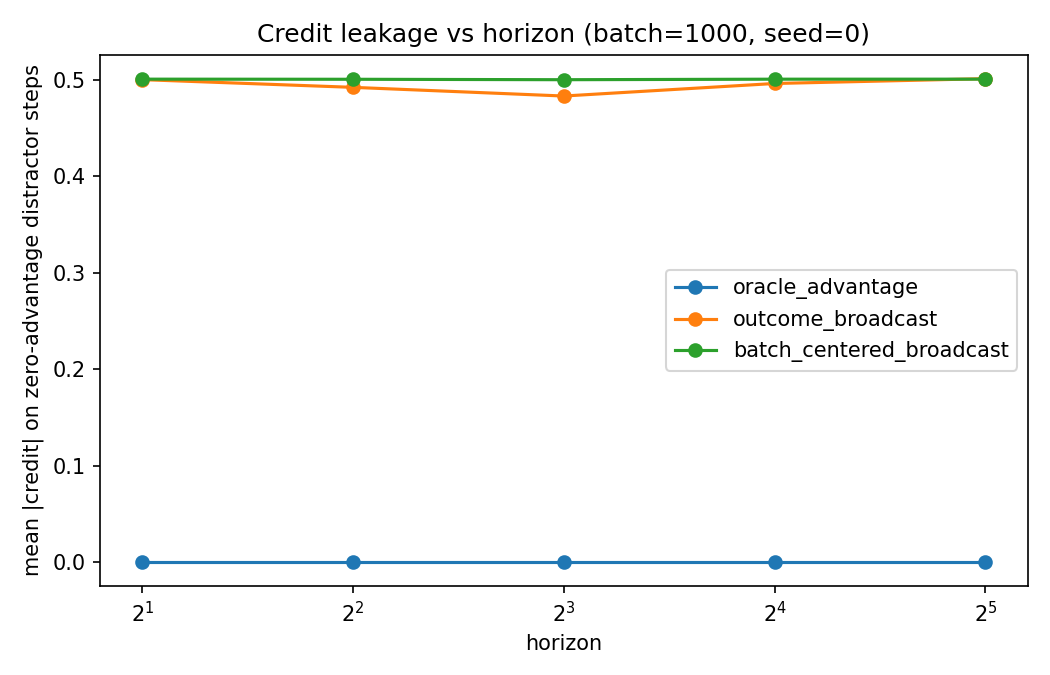
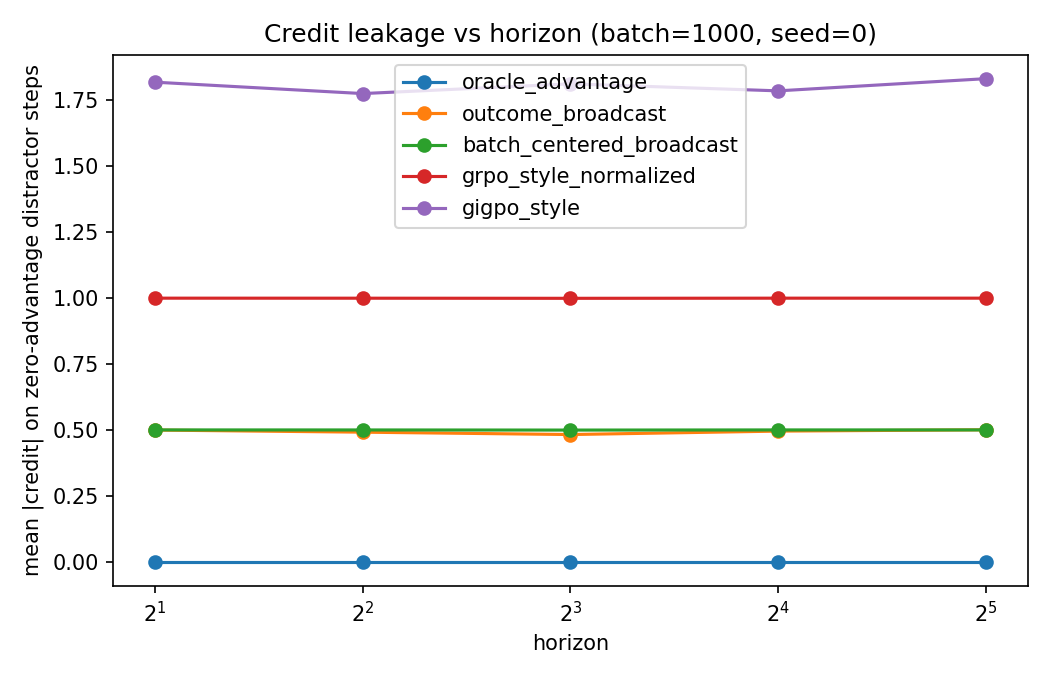
feat: add estimator adapter and GRPO/GiGPO-style baselines

diff --git a/tests/test_adapters.py b/tests/test_adapters.py
@@ -1,0 +1,107 @@
+"""Tests for the adapter and the library-style baselines (plan.md §16)."""
+
+import statistics
+
+import pytest
+
+from agent_credit_bench.envs import DelayedEffectEnv
+from agent_credit_bench.estimators import (
+    BatchCenteredBroadcast,
+    EstimatorContext,
+    GiGPOStyle,
+    GRPOStyleNormalized,
+    TrajectoryReturnAdapter,
+)
+from agent_credit_bench.policy import UniformPolicy
+from agent_credit_bench.sampling import sample_trajectories
+from agent_credit_bench.types import Step, Trajectory
+from helpers import bandit_case
+
+
+def bandit_batch() -> EstimatorContext:
+    mdp, policy = bandit_case()
+    trajectories = (
+        Trajectory((Step(0, "s0", "A", 1.0, "done", True),)),
+        Trajectory((Step(0, "s0", "B", 0.0, "done", True),)),
+        Trajectory((Step(0, "s0", "A", 1.0, "done", True),)),
+    )
+    return EstimatorContext(mdp=mdp, policy=policy, trajectories=trajectories)
+
+
+def test_adapter_reproduces_batch_centered():
+    """A hand-written LOO function through the adapter == the built-in."""
+
+    def loo(returns):
+        total = sum(returns)
+        n = len(returns)
+        return [r - (total - r) / (n - 1) for r in returns]
+
+    context = bandit_batch()
+    adapted = TrajectoryReturnAdapter(fn=loo, name="loo_adapter")
+    expected = BatchCenteredBroadcast().estimate(context)
+    for adapted_row, expected_row in zip(
+        adapted.estimate(context), expected, strict=True
+    ):
+        assert adapted_row == pytest.approx(expected_row)
+
+
+def test_adapter_rejects_wrong_output_length():
+    adapter = TrajectoryReturnAdapter(fn=lambda returns: returns[:-1])
+    with pytest.raises(ValueError):
+        adapter.estimate(bandit_batch())
+
+
+def test_grpo_style_hand_calculation():
+    # Returns 1, 0, 1: mean 2/3, population std sqrt(2)/3.
+    context = bandit_batch()
+    credits = GRPOStyleNormalized().estimate(context)
+    std = statistics.pstdev([1.0, 0.0, 1.0])
+    assert credits[0][0] == pytest.approx((1 / 3) / (std + 1e-4))
+    assert credits[1][0] == pytest.approx((-2 / 3) / (std + 1e-4))
+    assert credits[2][0] == pytest.approx(credits[0][0])
+
+
+def test_grpo_style_constant_returns_give_zero_credit():
+    mdp, policy = bandit_case()
+    context = EstimatorContext(
+        mdp=mdp,
+        policy=policy,
+        trajectories=(
+            Trajectory((Step(0, "s0", "A", 1.0, "done", True),)),
+            Trajectory((Step(0, "s0", "A", 1.0, "done", True),)),
+        ),
+    )
+    credits = GRPOStyleNormalized().estimate(context)
+    assert credits == ((0.0,), (0.0,))
+
+
+def test_gigpo_step_level_separates_latent_states():
+    """Anchor-state grouping should give distractor steps state-conditioned
+    credit: in the delayed-effect env, a "good"-state step and a "bad"-state
+    step see different return-to-go groups."""
+    env = DelayedEffectEnv(horizon=4)
+    policy = UniformPolicy()
+    trajectories = sample_trajectories(env, policy, 500, seed=0)
+    context = EstimatorContext(mdp=env, policy=policy, trajectories=trajectories)
+    credits = GiGPOStyle(episode_weight=0.0, step_weight=1.0).estimate(context)
+
+    # Step-level-only credit at t>=1 must depend only on (state, return-to-go);
+    # two successful trajectories in the same latent state get equal credit.
+    by_key = {}
+    for trajectory, row in zip(trajectories, credits, strict=True):
+        for step, credit in zip(trajectory.steps, row, strict=True):
+            if step.timestep >= 1:
+                key = (step.state, trajectory.total_return)
+                by_key.setdefault(key, set()).add(round(credit, 9))
+    assert all(len(values) == 1 for values in by_key.values())
+    # And "good" vs "bad" groups are actually distinguished for successes.
+    good = next(iter(by_key[("good", 1.0)]))
+    bad = next(iter(by_key[("bad", 1.0)]))
+    assert good != bad
+
+
+def test_gigpo_shapes():
+    context = bandit_batch()
+    credits = GiGPOStyle().estimate(context)
+    assert len(credits) == 3
+    assert all(len(row) == 1 for row in credits)

diff --git a/src/agent_credit_bench/estimators/gigpo_style.py b/src/agent_credit_bench/estimators/gigpo_style.py
@@ -1,0 +1,74 @@
+"""GiGPO-style hierarchical group baseline (plan.md §16, item 1).
+
+Reimplements the *mechanism* of GiGPO (Feng et al., 2025) — hierarchical
+grouping — without claiming the paper's exact constants, hence "-style":
+
+  - episode level: z-normalized trajectory return over the batch
+    (the GRPO-style group advantage);
+  - step level: steps are anchored by identical environment state; within
+    each anchor group the return-to-go from that step is z-normalized;
+  - credit = episode_weight * episode_advantage
+           + step_weight * step_advantage.
+
+Anchor grouping is by state only (as in the paper: identical states met at
+possibly different times form one group), with gamma = 1 returns-to-go. A
+group with zero variance contributes zero step advantage.
+"""
+
+import statistics
+from dataclasses import dataclass
+
+from agent_credit_bench.estimators.base import EstimatorContext
+
+
+def _z_scores(values: list[float], epsilon: float) -> list[float]:
+    mean = statistics.fmean(values)
+    std = statistics.pstdev(values)
+    return [(v - mean) / (std + epsilon) for v in values]
+
+
+@dataclass(frozen=True)
+class GiGPOStyle:
+    episode_weight: float = 1.0
+    step_weight: float = 1.0
+    epsilon: float = 1e-4
+    name: str = "gigpo_style"
+
+    def estimate(
+        self, context: EstimatorContext
+    ) -> tuple[tuple[float, ...], ...]:
+        trajectories = context.trajectories
+        episode = _z_scores(
+            [t.total_return for t in trajectories], self.epsilon
+        )
+
+        # Returns-to-go, and anchor groups keyed by state.
+        returns_to_go: list[list[float]] = []
+        groups: dict[object, list[tuple[int, int]]] = {}
+        for i, trajectory in enumerate(trajectories):
+            suffix = 0.0
+            rtg = [0.0] * len(trajectory.steps)
+            for t in range(len(trajectory.steps) - 1, -1, -1):
+                suffix += trajectory.steps[t].reward
+                rtg[t] = suffix
+            returns_to_go.append(rtg)
+            for t, step in enumerate(trajectory.steps):
+                groups.setdefault(step.state, []).append((i, t))
+
+        step_advantage = [
+            [0.0] * len(trajectory.steps) for trajectory in trajectories
+        ]
+        for members in groups.values():
+            scores = _z_scores(
+                [returns_to_go[i][t] for i, t in members], self.epsilon
+            )
+            for (i, t), score in zip(members, scores, strict=True):
+                step_advantage[i][t] = score
+
+        return tuple(
+            tuple(
+                self.episode_weight * episode[i] + self.step_weight * adv
+                for adv in step_advantage[i]
+            )
+            for i in range(len(trajectories))
+        )

diff --git a/src/agent_credit_bench/estimators/adapter.py b/src/agent_credit_bench/estimators/adapter.py
@@ -1,0 +1,51 @@
+"""Adapter for external trajectory-level advantage code (plan.md §16, item 1).
+
+The adoption bridge: most library implementations (verl, TRL, GRPO/RLOO
+reference code) reduce to a function from a batch of trajectory returns to a
+batch of trajectory credits. Wrap that function and the suite can score the
+*actual* library computation — no reimplementation, no torch dependency in
+this package.
+
+Example — scoring TRL-style group whitening in six lines:
+
+    def trl_grpo_whiten(returns):
+        import statistics
+        mean = statistics.fmean(returns)
+        std = statistics.pstdev(returns)
+        return [(r - mean) / (std + 1e-4) for r in returns]
+
+    estimator = TrajectoryReturnAdapter(fn=trl_grpo_whiten, name="trl_grpo")
+
+Step-level library code can implement the CreditEstimator protocol directly;
+it is a single `estimate` method.
+"""
+
+from collections.abc import Callable, Sequence
+from dataclasses import dataclass
+
+from agent_credit_bench.estimators.base import EstimatorContext
+
+
+@dataclass(frozen=True)
+class TrajectoryReturnAdapter:
+    """Broadcasts fn(batch returns) -> batch credits onto every step."""
+
+    fn: Callable[[Sequence[float]], Sequence[float]]
+    name: str = "trajectory_return_adapter"
+
+    def estimate(
+        self, context: EstimatorContext
+    ) -> tuple[tuple[float, ...], ...]:
+        returns = [t.total_return for t in context.trajectories]
+        credits = list(self.fn(returns))
+        if len(credits) != len(returns):
+            raise ValueError(
+                f"adapted function returned {len(credits)} credits "
+                f"for {len(returns)} trajectories"
+            )
+        return tuple(
+            tuple(float(credit) for _ in trajectory.steps)
+            for credit, trajectory in zip(
+                credits, context.trajectories, strict=True
+            )
+        )

diff --git a/src/agent_credit_bench/estimators/grpo_style.py b/src/agent_credit_bench/estimators/grpo_style.py
@@ -1,0 +1,40 @@
+"""GRPO-style normalized group-relative baseline (plan.md §16, item 1).
+
+Faithful reimplementation of the published group-advantage formula
+(DeepSeekMath / TRL GRPOTrainer):
+
+    credit_i_t = (return_i - mean(returns)) / (pstdev(returns) + epsilon)
+
+Differences from BatchCenteredBroadcast: the mean includes the trajectory
+itself (no leave-one-out), and the result is normalized by the group standard
+deviation. Note the normalization makes the output scale-free, so its RMSE
+against exact advantage is not meaningful on its own — the centered/gradient
+metrics are the fair ones (plan.md §10.8).
+
+A batch whose returns are all equal (std = 0) gets zero credit everywhere,
+matching library behavior. Labeled "-style" because it reproduces the
+formula, not the library code path; use TrajectoryReturnAdapter to score the
+actual library function.
+"""
+
+import statistics
+from dataclasses import dataclass
+
+from agent_credit_bench.estimators.base import EstimatorContext
+
+
+@dataclass(frozen=True)
+class GRPOStyleNormalized:
+    epsilon: float = 1e-4
+    name: str = "grpo_style_normalized"
+
+    def estimate(
+        self, context: EstimatorContext
+    ) -> tuple[tuple[float, ...], ...]:
+        returns = [t.total_return for t in context.trajectories]
+        mean = statistics.fmean(returns)
+        std = statistics.pstdev(returns)
+        return tuple(
+            tuple((ret - mean) / (std + self.epsilon) for _ in trajectory.steps)
+            for ret, trajectory in zip(returns, context.trajectories, strict=True)
+        )

diff --git a/src/agent_credit_bench/estimators/__init__.py b/src/agent_credit_bench/estimators/__init__.py
@@ -1,7 +1,11 @@
 """Baseline credit estimators (plan.md §9)."""
 
+from agent_credit_bench.estimators.adapter import TrajectoryReturnAdapter
 from agent_credit_bench.estimators.base import CreditEstimator, EstimatorContext
 from agent_credit_bench.estimators.batch_centered import BatchCenteredBroadcast
+from agent_credit_bench.estimators.gigpo_style import GiGPOStyle
+from agent_credit_bench.estimators.grpo_style import GRPOStyleNormalized
+from agent_credit_bench.estimators.monte_carlo import MonteCarloAdvantage
 from agent_credit_bench.estimators.oracle import OracleAdvantage
 from agent_credit_bench.estimators.outcome_broadcast import OutcomeBroadcast
 from agent_credit_bench.estimators.turn_loo import TurnLOO
@@ -10,7 +14,11 @@ __all__ = [
     "BatchCenteredBroadcast",
     "CreditEstimator",
     "EstimatorContext",
+    "GRPOStyleNormalized",
+    "GiGPOStyle",
+    "MonteCarloAdvantage",
     "OracleAdvantage",
     "OutcomeBroadcast",
+    "TrajectoryReturnAdapter",
     "TurnLOO",
 ]

diff --git a/experiments/delayed_horizon_sweep.py b/experiments/delayed_horizon_sweep.py
@@ -16,6 +16,8 @@ from agent_credit_bench.envs import DelayedEffectEnv
 from agent_credit_bench.estimators import (
     BatchCenteredBroadcast,
     EstimatorContext,
+    GiGPOStyle,
+    GRPOStyleNormalized,
     OracleAdvantage,
     OutcomeBroadcast,
 )
@@ -24,7 +26,13 @@ from agent_credit_bench.sampling import sample_trajectories
 from agent_credit_bench.types import Trajectory
 
 HORIZONS = (2, 4, 8, 16, 32)
-ESTIMATORS = (OracleAdvantage(), OutcomeBroadcast(), BatchCenteredBroadcast())
+ESTIMATORS = (
+    OracleAdvantage(),
+    OutcomeBroadcast(),
+    BatchCenteredBroadcast(),
+    GRPOStyleNormalized(),
+    GiGPOStyle(),
+)
 
 
 def mean_distractor_credit(

diff --git a/experiments/recovery_diagnostic.py b/experiments/recovery_diagnostic.py
@@ -15,13 +15,21 @@ from agent_credit_bench.envs.recovery import RecoveryEnv
 from agent_credit_bench.estimators import (
     BatchCenteredBroadcast,
     EstimatorContext,
+    GiGPOStyle,
+    GRPOStyleNormalized,
     OracleAdvantage,
     OutcomeBroadcast,
 )
 from agent_credit_bench.policy import UniformPolicy
 from agent_credit_bench.sampling import sample_trajectories
 
-ESTIMATORS = (OracleAdvantage(), OutcomeBroadcast(), BatchCenteredBroadcast())
+ESTIMATORS = (
+    OracleAdvantage(),
+    OutcomeBroadcast(),
+    BatchCenteredBroadcast(),
+    GRPOStyleNormalized(),
+    GiGPOStyle(),
+)
 
 
 def main() -> None:
